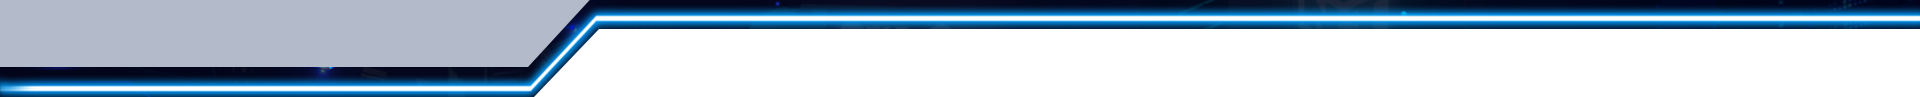
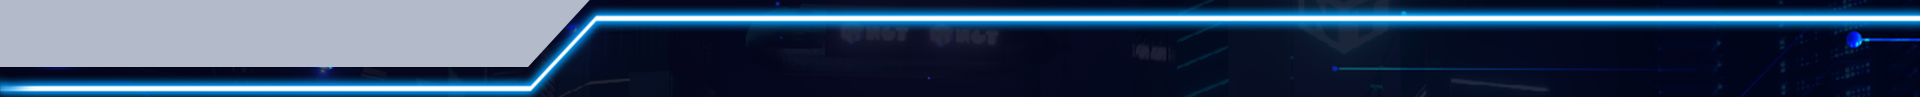
update blog page

diff --git a/assets/css/style.css b/assets/css/style.css
@@ -92,6 +92,24 @@ body {
     font-size: 22px;
 }
 
+.ngt-slider::before {
+    content: "";
+    background-image: url(../images/slider/left.png);
+    top: 50%;
+    left: 0;
+    height: 50px;
+    width: 50px;
+    position: absolute;
+}
+.ngt-slider::after {
+    content: "";
+    background-image: url(../images/slider/right.png);
+    top: 50%;
+    right: 0;
+    height: 50px;
+    width: 50px;
+    position: absolute;
+}
 
 .ngt-nav-inner{
     background: rgba(2, 24, 85, 0.75);
@@ -197,11 +215,27 @@ ul.ngt-nav-list li span {
     font-family: 'JuraBold',sans-serif;
     height: 68px;
     width: 190px;
+    padding-top: 20px;
     text-align: left;
     border: unset;
     background: transparent url("../images/button/button.png") no-repeat;
     color: white;
     font-size: 17px;
+    letter-spacing: 2px;
+    text-shadow: 2px 0 2px rgba(255, 255, 255, 1), -2px 0 2px rgba(255, 255, 255, 1), 0 1px 2px rgba(0, 234, 255, 1), 0 -1px 2px rgba(0, 234, 255, 1);
+}
+
+.ngt-blog-btn-back{
+    font-family: 'JuraBold',sans-serif;
+    height: 68px;
+    width: 190px;
+    text-align: right;
+    padding-top: 15px;
+    padding-right: 50px;
+    border: unset;
+    background: transparent url("../images/button/button2.png") no-repeat;
+    color: white;
+    font-size: 20px;
     letter-spacing: 2px;
     text-shadow: 2px 0 2px rgba(255, 255, 255, 1), -2px 0 2px rgba(255, 255, 255, 1), 0 1px 2px rgba(0, 234, 255, 1), 0 -1px 2px rgba(0, 234, 255, 1);
 }
@@ -214,8 +248,36 @@ ul.ngt-nav-list li span {
     background: transparent url("../images/button/button.png") no-repeat;
 }
 
+.ngt-blog-btn-back:hover{
+    height: 68px;
+    width: 190px;
+    text-align: right;
+    border: unset;
+    background: transparent url("../images/button/button2.png") no-repeat;
+}
+
 @media only screen and (max-width: 550px) {
+    .container-fluid{
+        --bs-gutter-x: 0.5rem;
+    }
+
+    .ngt-header-section-outer {
+        border-image: url('../images/glow/nav.png') 105;
+        border-style: solid;
+        border-width: 0 0 35px 0;
+        position: relative;
+        z-index: 1;
+    }
+
+    .blog-details-slider{
+        background-image: url("../images/glow/glow-mobile.png");
+        background-repeat: no-repeat;
+        background-position: center center;
+        background-size: contain;
+    }
+
     .ngt-logo{
+        position: inherit;
         width: 80px;
         padding-left: 4px !important;
     }
@@ -224,5 +286,15 @@ ul.ngt-nav-list li span {
         padding-right: unset;
         font-size: 26px;
         margin-right: unset !important;
+    }
+
+    .ngt-footer-outer {
+        height: 115px;
+        width: 100%;
+        position: fixed;
+        bottom: 0;
+        border-image: url(../images/bg/footer.png) 70;
+        border-style: solid;
+        border-width: 0 0 40px 0;
     }
 }

diff --git a/blog_details.html b/blog_details.html
@@ -45,25 +45,25 @@
 
 <section class="ngt-demo pb-5">
     <div class="container pt-5 pb-5">
-        <div class="row">
+        <div class="row ngt-slider">
             <div class="col-lg-7 blog-details-slider pb-3 text-center d-flex justify-content-center align-items-center">
-                <div class="row">
-                    <div class="col-3 d-flex justify-content-center align-items-center">
+                <div class="row pt-md-0 pb-md-0 pt-5 pb-5">
+                    <div class="col-md-3 d-md-flex justify-content-center align-items-center d-none">
+                        <img src="assets/images/blog/Limg.png" class="img-fluid" alt=""/>
+                    </div>
+                    <div class="col-md-6 col-12">
                         <img src="assets/images/blog/blog_1.png" class="img-fluid" alt=""/>
                     </div>
-                    <div class="col-6">
-                        <img src="assets/images/blog/blog_1.png" class="img-fluid" alt=""/>
+                    <div class="col-md-3 d-md-flex justify-content-center align-items-center d-none">
+                        <img src="assets/images/blog/rimg.png" class="img-fluid" alt=""/>
                     </div>
-                    <div class="col-3 d-flex justify-content-center align-items-center">
-                        <img src="assets/images/blog/blog_1.png" class="img-fluid" alt=""/>
-                    </div>
-                    <div class="col-6 mx-auto">
+                    <div class="col-md-6 col-12 mx-auto pb-md-0 pb-5">
                         <h4 class="mt-4 ngt-demo-title">Lorem Ipsum is simply </h4>
                     </div>
                 </div>
             </div>
             <div class="col-lg-5 pb-3">
-                <h4 class="mt-4 ngt-demo-title">Lorem Ipsum is simply dummy text of the</h4>
+                <h4 class="ngt-demo-title">Lorem Ipsum is simply dummy text of the</h4>
                 <p class="text-white ngt-blog-content" style="text-align: justify">
                     Lorem ipsum dolor sit amet, consectetur adipiscing elit, sed do eiusmod tempor incididunt ut labore
                     et dolore magna aliqua. Turpis in eu mi bibendum neque egestas congue. Id neque aliquam vestibulum
@@ -88,9 +88,9 @@
                     posuere morbi leo urna molestie at elementum.
                 </p>
                 <div class="text-end">
-                    <button class="btn btn-primary ngt-blog-btn mt-3">
+                    <a href="index.html" class="btn btn-primary ngt-blog-btn-back mt-3">
                         Back
-                    </button>
+                    </a>
                 </div>
             </div>
         </div>

diff --git a/index.html b/index.html
@@ -53,31 +53,31 @@
                     Lorem Ipsum is simply dummy text <br/>
                     of the printing and typesetting industry
                 </p>
-                <button class="btn btn-primary ngt-blog-btn mt-3">
+                <a href="blog_details.html" class="btn btn-primary ngt-blog-btn mt-3">
                     See More
-                </button>
+                </a>
             </div>
             <div class="col-lg-4 pb-3 text-center">
-                <img alt="" class="img-fluid" src="assets/images/blog/blog_1.png"/>
+                <img alt="" class="img-fluid" src="assets/images/blog/blog_2.png"/>
                 <h4 class="text-center mt-4 ngt-demo-title">TITLE</h4>
                 <p class="text-white ngt-blog-content">
                     Lorem Ipsum is simply dummy text <br/>
                     of the printing and typesetting industry
                 </p>
-                <button class="btn btn-primary ngt-blog-btn mt-3">
+                <a href="blog_details.html" class="btn btn-primary ngt-blog-btn mt-3">
                     See More
-                </button>
+                </a>
             </div>
             <div class="col-lg-4 pb-3 text-center">
-                <img alt="" class="img-fluid" src="assets/images/blog/blog_1.png"/>
+                <img alt="" class="img-fluid" src="assets/images/blog/blog_3.png"/>
                 <h4 class="text-center mt-4 ngt-demo-title">TITLE</h4>
                 <p class="text-white ngt-blog-content">
                     Lorem Ipsum is simply dummy text <br/>
                     of the printing and typesetting industry
                 </p>
-                <button class="btn btn-primary ngt-blog-btn mt-3">
+                <a href="blog_details.html" class="btn btn-primary ngt-blog-btn mt-3">
                     See More
-                </button>
+                </a>
             </div>
         </div>
     </div>
